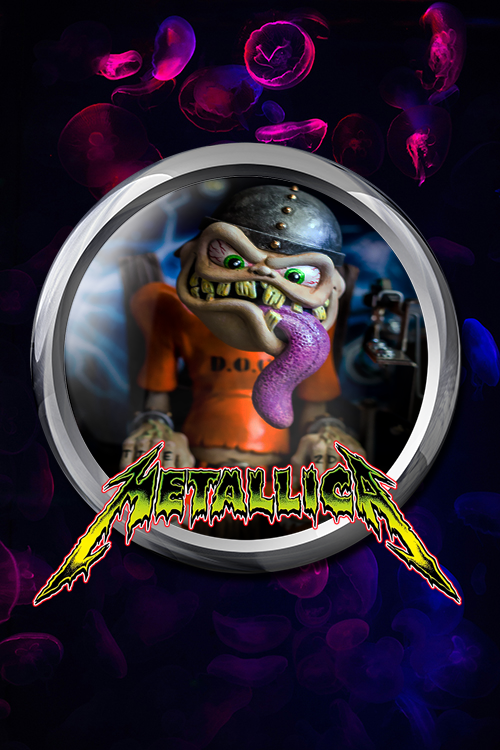
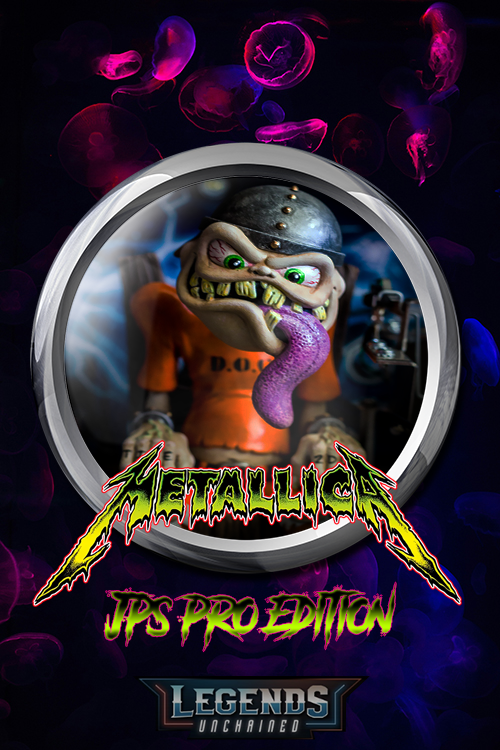
New Launcher png, ini and readme tweaks
Tweaked Launcher PNG to reflect which Metallica table this is.
Adjusted INI to tweak lighting, allow ball lighting, and simple FXAA
Revised Readme with updated versions, links, and ROM instructions.

Changed region(s): [[0.21, 0.7667, 0.81, 0.8587], [0.27, 0.8893, 0.75, 0.9813]]

diff --git a/external/vpx-jpmetallica/README.md b/external/vpx-jpmetallica/README.md
@@ -7,11 +7,11 @@
 ## Files
 | File Type | Link | Version | Author | 
 |-----------|--------|----------|--------------|
-| **VPX** | [VP Forums](https://www.vpforums.org/index.php?app=downloads&showfile=18612) | 5.5.1 | [jpsalas](https://www.vpforums.org/index.php?s=c4190c252e4b0afe20488a58dfe99e31&showuser=277)  |
-| **B2S** | [VP Universe](https://vpuniverse.com/files/file/10947-metallica-premium-monsters-stern-2013-b2s-with-full-dmd/) | Choose "Metallica Pro (Stern 2013).zip" | [hauntfreaks](https://vpuniverse.com/profile/5216-hauntfreaks/)  |
-| **ROM** | [Stern](https://sternpinball.com/?post_type=game_code&s=metallica%20Pro%201.80%20Game%20Code) | MTL180.BIN | Stern |
+| **VPX** | [VP Forums](https://www.vpforums.org/index.php?app=downloads&showfile=18612) | 6.0.0 | [jpsalas](https://www.vpforums.org/index.php?s=c4190c252e4b0afe20488a58dfe99e31&showuser=277)  |
+| **B2S** | [VP Universe](https://vpuniverse.com/files/file/10947-metallica-stern-2013-all-4-b2s-full-dmd/) | Choose "Metallica Pro (Stern 2013).zip" | [hauntfreaks](https://vpuniverse.com/profile/5216-hauntfreaks/)  |
+| **ROM** | [Stern](https://sternpinball.com/?post_type=game_code&s=Metallica+Pro&fysSr_Fuji=7k%40H*2p&SBsWCwGvkHniPMt=%5Bb86rjgPQalyW9ik&fysSr_Fuji=7k%40H*2p&SBsWCwGvkHniPMt=%5Bb86rjgPQalyW9ik) | MTL180.BIN | Stern |
 
-**Tested by:** [mcap]
+**Tested by:** [mcap],[Khrymsyn]
 
 
 ## Status 
@@ -22,11 +22,12 @@ Minimum VPX Standalone build: 10.8.0-1989-a764013
 |-----------|----------|-----------|-----|--------------|-----|
 | :white_check_mark: | :white_check_mark: | :white_check_mark: | :white_check_mark: | :white_check_mark: | 60 |
 
-## Instructions
+
+## Manual Instructions
 
 - Install this table through the Table Manager, using the `Add Table` > `Manual` page
 - If you need help, more information found on the wiki: [TM - Add Table - Manual](https://github.com/LegendsUnchained/vpx-standalone-alp4k/wiki/%5B04%5D-%F0%9F%A7%A1-TM-%E2%80%90-Other-Features#add-table---manual)
 - If the table requires any additional files/steps, click `GO TO TABLE` after adding, and the TM will open to the relevant table folder.
-- Use the Metallica Pro 1.80 Game Code link to download the ROM
-- Rename `MTL180LE.BIN` to `mtl180h.bin`, then zip it to `mtl_180h.zip`
+- Use the 11/19/18 Metallica Pro 1.80 Game Code link to download the ROM
+- Rename `MTL180.BIN` to `mtl180h.bin`, then zip it to `mtl_180h.zip`
 
